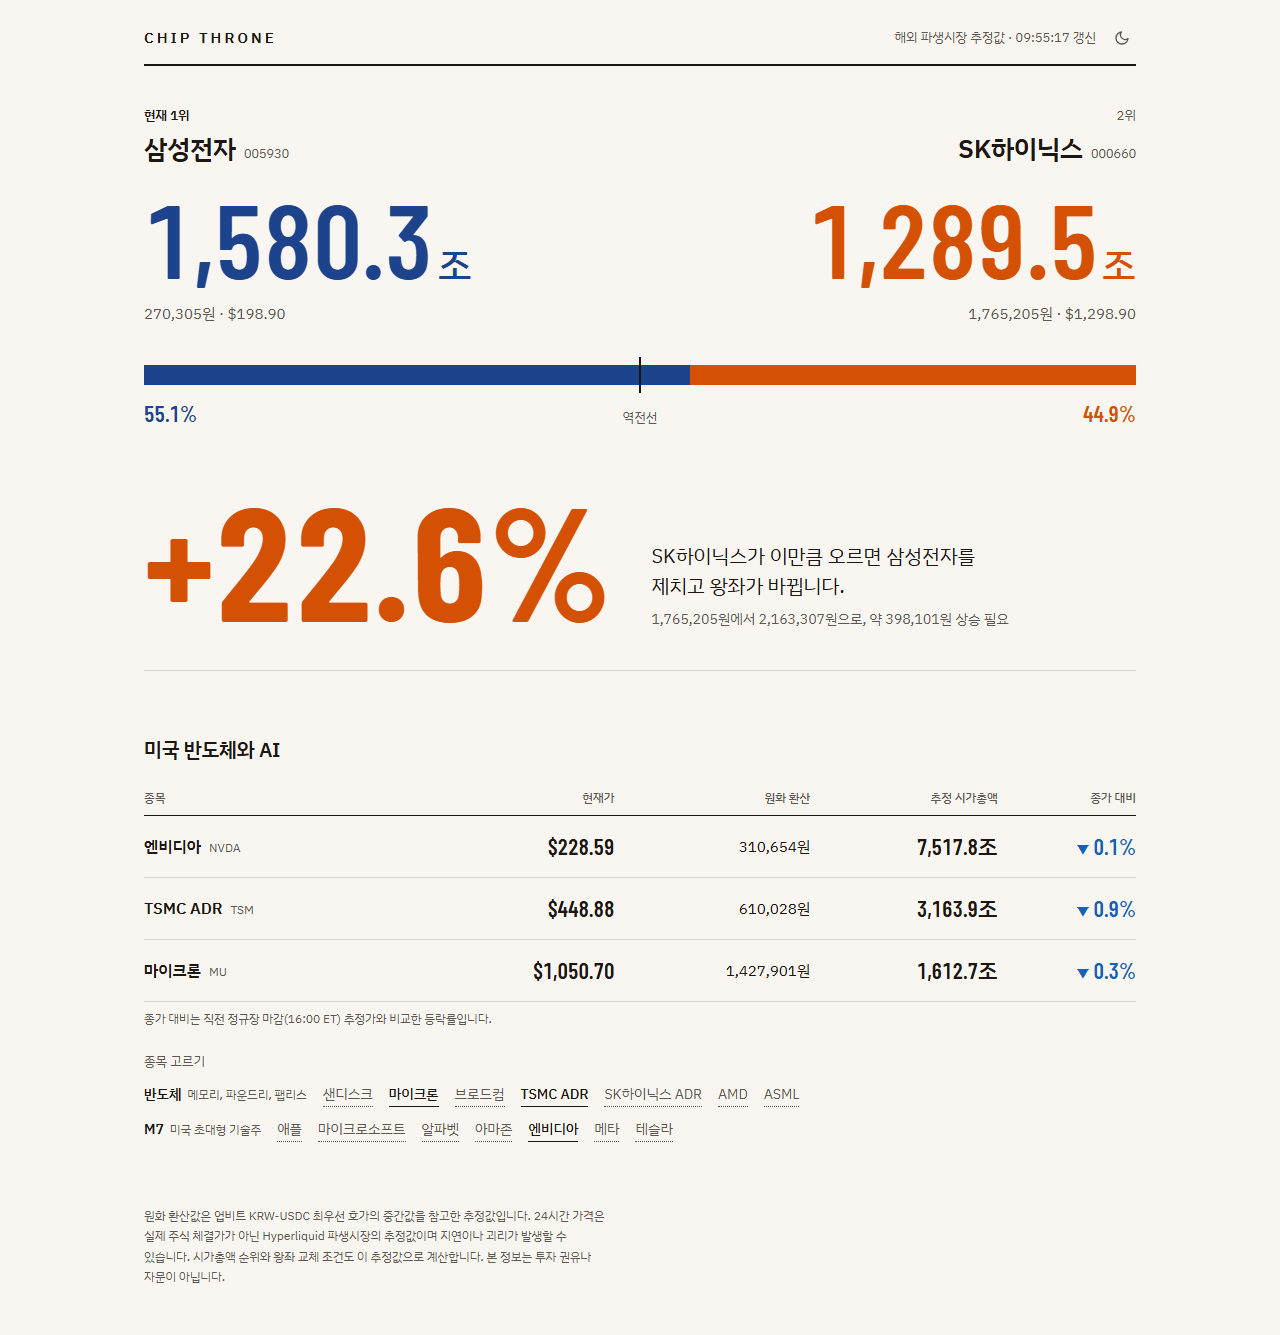
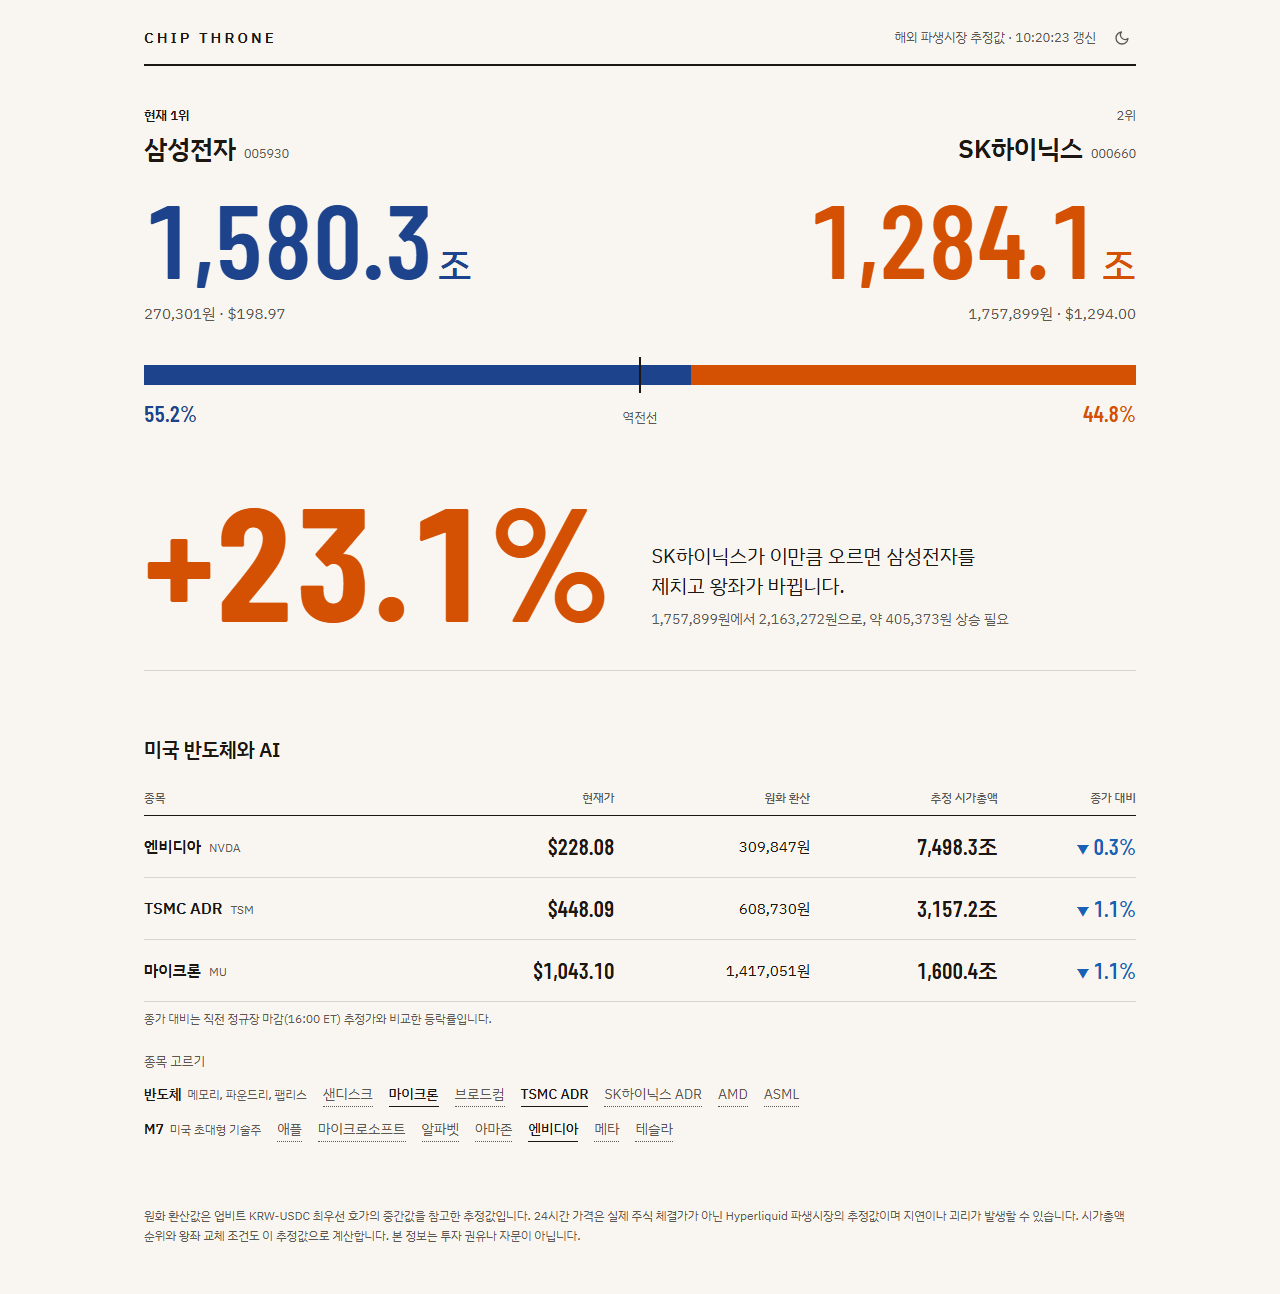
fix: 첫 시세 전에는 목업값 대신 - 표시
첫 SSE 응답 전에 코드에 박힌 예전 가격(삼성전자 369,500원, 시총 2,160조)을 보여 주고
실제 값으로 굴러 내려가는 애니메이션을 돌렸다. 백그라운드 탭에서는 애니메이션이 멈춰
목업값이 실제 시세처럼 남는 문제도 있었다.

- 초기 스냅샷을 비우고, 코드와 이름만 아는 자리(QuoteSlot)를 먼저 그린 뒤 시세를 채움
- 시세 전에는 시가총액, 가격, 비율, 필요 상승률, 순위 자리에 - 표시
- 줄다리기 막대는 중립색 반반으로 두고 판정 자리에 시세를 받는 중이라고 안내
- 미국 관심 종목은 고른 행을 먼저 보여 주고 값 자리만 - 표시
- 면책 문구의 폭 제한을 없애 본문 폭 전체 사용 (1280px 기준 4줄에서 2줄)
- README 화면 이미지를 다시 캡처

diff --git a/frontend/src/components/ReversalCalculator.tsx b/frontend/src/components/ReversalCalculator.tsx
@@ -1,4 +1,4 @@
-import type { Company } from '../types'
+import type { QuoteSlot } from '../types'
 import type { Comparison } from '../lib/marketCap'
 import { formatPrice, marketCap } from '../lib/marketCap'
 import { teamTone } from '../lib/teamTone'
@@ -11,16 +11,16 @@ function particle(word: string, withFinal: string, withoutFinal: string): string
 /**
  * 줄다리기 막대와 역전 조건. 막대는 전광판과 같은 자리(left, right)를 따르고,
  * 가장 큰 숫자인 "필요 상승률"이 이 사이트가 답하는 질문 자체다.
+ * 두 종목 시세가 모두 오기 전에는 막대를 중립색 반반으로 두고 숫자 자리에 "-"를 둔다.
  */
-export function ReversalCalculator({ cmp, left, right }: { cmp: Comparison; left: Company; right: Company }) {
-  const needPct = Math.max(cmp.reversalPct, 0)
-  const needPrice = Math.round(cmp.reversalPrice - cmp.challenger.price)
-  const total = marketCap(left) + marketCap(right)
+export function ReversalCalculator({ cmp, left, right }: { cmp: Comparison | null; left: QuoteSlot; right: QuoteSlot }) {
+  const leftCap = left.company ? marketCap(left.company) : 0
+  const rightCap = right.company ? marketCap(right.company) : 0
+  const ready = cmp != null && leftCap > 0 && rightCap > 0
   // 두 종목 합계 대비 점유율. 50%가 역전선.
-  const leftShare = total > 0 ? (marketCap(left) / total) * 100 : 50
-  const leftTone = teamTone(left.code)
-  const rightTone = teamTone(right.code)
-  const challengerTone = teamTone(cmp.challenger.code)
+  const leftShare = ready ? (leftCap / (leftCap + rightCap)) * 100 : 50
+  const leftTone = ready ? teamTone(left.code) : { text: 'text-ink-2', bar: 'bg-rule' }
+  const rightTone = ready ? teamTone(right.code) : { text: 'text-ink-2', bar: 'bg-rule' }
 
   return (
     <div data-testid="reversal-comparison">
@@ -28,7 +28,7 @@ export function ReversalCalculator({ cmp, left, right }: { cmp: Comparison; left
         <div
           data-testid="reversal-bar"
           role="img"
-          aria-label={`${left.name} ${leftShare.toFixed(1)}%, ${right.name} ${(100 - leftShare).toFixed(1)}%`}
+          aria-label={ready ? `${left.name} ${leftShare.toFixed(1)}%, ${right.name} ${(100 - leftShare).toFixed(1)}%` : '시세를 받는 중'}
           className="relative flex h-5"
         >
           <div className={`h-full ${leftTone.bar}`} style={{ width: `${leftShare}%` }} />
@@ -36,26 +36,48 @@ export function ReversalCalculator({ cmp, left, right }: { cmp: Comparison; left
           <span className="absolute -top-2 -bottom-2 left-1/2 w-0.5 -translate-x-1/2 bg-ink" />
         </div>
         <div className="mt-3 flex items-baseline justify-between text-[13px] text-ink-2">
-          <span className={`num text-[22px] font-semibold ${leftTone.text}`}>{leftShare.toFixed(1)}%</span>
+          <span className={`num text-[22px] font-semibold ${leftTone.text}`}>{ready ? `${leftShare.toFixed(1)}%` : '-%'}</span>
           <span>역전선</span>
-          <span className={`num text-[22px] font-semibold ${rightTone.text}`}>{(100 - leftShare).toFixed(1)}%</span>
+          <span className={`num text-[22px] font-semibold ${rightTone.text}`}>{ready ? `${(100 - leftShare).toFixed(1)}%` : '-%'}</span>
         </div>
       </div>
 
       <div className="mt-14 grid grid-cols-1 items-end gap-4 border-b border-rule pb-10 sm:grid-cols-[auto_minmax(0,1fr)] sm:gap-10">
-        <p className={`num text-[104px] leading-[0.9] font-bold sm:text-[160px] ${challengerTone.text}`}>
-          +{needPct.toFixed(1)}%
-        </p>
-        <div>
-          <p className="max-w-[30ch] text-[19px] leading-[1.5] sm:text-[20px]">
-            {cmp.challenger.name}{particle(cmp.challenger.name, '이', '가')} 이만큼 오르면{' '}
-            {cmp.leader.name}{particle(cmp.leader.name, '을', '를')} 제치고 왕좌가 바뀝니다.
-          </p>
-          <p className="mt-2 text-[14px] tabular-nums text-ink-2">
-            {formatPrice(cmp.challenger.price)}원에서 {formatPrice(cmp.reversalPrice)}원으로, 약 {formatPrice(needPrice)}원 상승 필요
-          </p>
-        </div>
+        {ready && cmp ? <Verdict cmp={cmp} /> : <PendingVerdict />}
       </div>
     </div>
+  )
+}
+
+function Verdict({ cmp }: { cmp: Comparison }) {
+  const needPct = Math.max(cmp.reversalPct, 0)
+  const needPrice = Math.round(cmp.reversalPrice - cmp.challenger.price)
+  return (
+    <>
+      <p className={`num text-[104px] leading-[0.9] font-bold sm:text-[160px] ${teamTone(cmp.challenger.code).text}`}>
+        +{needPct.toFixed(1)}%
+      </p>
+      <div>
+        <p className="max-w-[30ch] text-[19px] leading-[1.5] sm:text-[20px]">
+          {cmp.challenger.name}{particle(cmp.challenger.name, '이', '가')} 이만큼 오르면{' '}
+          {cmp.leader.name}{particle(cmp.leader.name, '을', '를')} 제치고 왕좌가 바뀝니다.
+        </p>
+        <p className="mt-2 text-[14px] tabular-nums text-ink-2">
+          {formatPrice(cmp.challenger.price)}원에서 {formatPrice(cmp.reversalPrice)}원으로, 약 {formatPrice(needPrice)}원 상승 필요
+        </p>
+      </div>
+    </>
+  )
+}
+
+function PendingVerdict() {
+  return (
+    <>
+      <p className="num text-[104px] leading-[0.9] font-bold text-ink-2 sm:text-[160px]">-%</p>
+      <div>
+        <p className="max-w-[30ch] text-[19px] leading-[1.5] sm:text-[20px]">2위가 얼마나 올라야 왕좌가 바뀌는지 계산합니다.</p>
+        <p className="mt-2 text-[14px] text-ink-2">실시간 시세를 받는 중입니다.</p>
+      </div>
+    </>
   )
 }

diff --git a/frontend/src/App.tsx b/frontend/src/App.tsx
@@ -8,6 +8,7 @@ import { useMarketData } from './hooks/useMarketData'
 import { useSupportedAssets } from './hooks/useSupportedAssets'
 import { compareMarketCap, marketCap } from './lib/marketCap'
 import { fallbackAssets } from './data/mockMarket'
+import type { QuoteSlot } from './types'
 import { MAX_WATCHLIST, MIN_WATCHLIST, normalizeWatchlist } from './lib/watchlist.js'
 
 const STORAGE_KEY = 'chipthrone.watchlist.v1'
@@ -38,15 +39,24 @@ function App() {
     [snapshot.stocks, symbols],
   )
   const krxCompanies = companies.filter((company) => company.market === 'KRX')
-  const usCompanies = companies.filter((company) => company.market === 'US')
+  // 시세가 오기 전에도 자리를 그리도록 코드와 이름은 지원 종목 목록에서 먼저 채운다.
+  const assetByCode = useMemo(() => new Map(assets.map((asset) => [asset.code, asset])), [assets])
+  const slotOf = (code: string): QuoteSlot => ({
+    code,
+    name: assetByCode.get(code)?.name ?? code,
+    company: companies.find((company) => company.code === code),
+  })
+  const usSlots = symbols.filter((code) => assetByCode.get(code)?.market === 'US').map(slotOf)
   const krxRanked = useMemo(
     () => [...krxCompanies].sort((a, b) => marketCap(b) - marketCap(a)),
     [krxCompanies],
   )
   const comparison = krxRanked.length >= 2 ? compareMarketCap(krxRanked[0], krxRanked[1]) : null
   // 전광판 자리는 고정한다. 1위가 바뀌면 자리가 아니라 "현재 1위" 표시가 옮겨 간다.
-  const [left, right] = CORE_SYMBOLS.map((code) => krxCompanies.find((company) => company.code === code))
-  const rankOf = (code: string) => krxRanked.findIndex((company) => company.code === code) + 1
+  const [left, right] = CORE_SYMBOLS.map(slotOf)
+  // 두 종목 시세가 모두 와야 순위를 매긴다. 그 전에는 null이라 순위 자리에 "-"가 나온다.
+  const rankOf = (code: string) =>
+    krxRanked.length >= 2 ? krxRanked.findIndex((company) => company.code === code) + 1 : null
 
   const add = (code: string) =>
     setStoredSymbols((current) =>
@@ -65,18 +75,16 @@ function App() {
         <Header updatedAt={snapshot.at} />
 
         <section data-testid="estimate-krx" aria-label="삼성전자와 SK하이닉스 시가총액 대결">
-          {left && right && (
-            <div className="mt-8 grid grid-cols-1 gap-8 sm:mt-10 sm:grid-cols-2 sm:gap-10">
-              <TeamScore company={left} rank={rankOf(left.code)} align="left" />
-              <TeamScore company={right} rank={rankOf(right.code)} align="right" />
-            </div>
-          )}
-          {comparison && left && right && <ReversalCalculator cmp={comparison} left={left} right={right} />}
+          <div className="mt-8 grid grid-cols-1 gap-8 sm:mt-10 sm:grid-cols-2 sm:gap-10">
+            <TeamScore slot={left} rank={rankOf(left.code)} align="left" />
+            <TeamScore slot={right} rank={rankOf(right.code)} align="right" />
+          </div>
+          <ReversalCalculator cmp={comparison} left={left} right={right} />
         </section>
 
         <section data-testid="us-watchlist" className="mt-16">
           <h2 className="mb-4 text-[20px] font-semibold tracking-[-0.01em]">미국 반도체와 AI</h2>
-          <UsQuoteTable companies={usCompanies} />
+          <UsQuoteTable slots={usSlots} />
           <WatchlistPicker
             assets={assets}
             selected={symbols}
@@ -85,7 +93,7 @@ function App() {
           />
         </section>
 
-        <footer className="mt-16 max-w-[64ch] text-[12px] leading-[1.7] text-ink-2">
+        <footer className="mt-16 text-[12px] leading-[1.7] text-ink-2">
           원화 환산값은 업비트 KRW-USDC 최우선 호가의 중간값을 참고한 추정값입니다.
           24시간 가격은 실제 주식 체결가가 아닌 Hyperliquid 파생시장의 추정값이며 지연이나 괴리가 발생할 수 있습니다.
           시가총액 순위와 왕좌 교체 조건도 이 추정값으로 계산합니다.

diff --git a/frontend/src/components/UsQuoteTable.tsx b/frontend/src/components/UsQuoteTable.tsx
@@ -1,4 +1,4 @@
-import type { Company } from '../types'
+import type { QuoteSlot } from '../types'
 import { formatCap, formatPrice, formatUsdAmount, marketCap, sessionCloseChangePct } from '../lib/marketCap'
 
 function Change({ value }: { value: number | null }) {
@@ -15,10 +15,14 @@ function Change({ value }: { value: number | null }) {
 
 /**
  * 관심 종목 시세표. 카드를 반복하지 않고 한 표에서 시총 순으로 비교한다.
+ * 시세가 아직 오지 않은 종목은 고른 순서대로 아래에 두고 값 자리에 "-"를 둔다.
  * 좁은 화면에서는 원화 환산 열을 숨겨 네 열만 남긴다.
  */
-export function UsQuoteTable({ companies }: { companies: Company[] }) {
-  const rows = [...companies].sort((a, b) => marketCap(b) - marketCap(a))
+export function UsQuoteTable({ slots }: { slots: QuoteSlot[] }) {
+  const capOf = (slot: QuoteSlot) => (slot.company ? marketCap(slot.company) : 0)
+  const loaded = slots.filter((slot) => slot.company).sort((a, b) => capOf(b) - capOf(a))
+  const pending = slots.filter((slot) => !slot.company)
+  const rows = [...loaded, ...pending]
   return (
     <div>
       <table className="w-full border-collapse">
@@ -39,17 +43,23 @@ export function UsQuoteTable({ companies }: { companies: Company[] }) {
               </td>
             </tr>
           ) : (
-            rows.map((company) => (
-              <tr key={company.code} data-testid="us-company-card" className="border-b border-rule">
+            rows.map(({ code, name, company }) => (
+              <tr key={code} data-testid="us-company-card" className="border-b border-rule">
                 <td className="py-3.5 pr-3 text-left">
-                  <span className="font-semibold">{company.name}</span>
-                  <span className="ml-2 text-[12px] text-ink-2">{company.code}</span>
+                  <span className="font-semibold">{name}</span>
+                  <span className="ml-2 text-[12px] text-ink-2">{code}</span>
                 </td>
-                <td className="num py-3.5 text-right text-[18px] font-semibold sm:text-[22px]">{formatUsdAmount(company.priceUsd)}</td>
-                <td className="hidden py-3.5 text-right text-[15px] tabular-nums sm:table-cell">{formatPrice(company.price)}원</td>
-                <td className="num py-3.5 text-right text-[18px] font-semibold sm:text-[22px]">{formatCap(marketCap(company))}</td>
                 <td className="num py-3.5 text-right text-[18px] font-semibold sm:text-[22px]">
-                  <Change value={sessionCloseChangePct(company)} />
+                  {company ? formatUsdAmount(company.priceUsd) : '-'}
+                </td>
+                <td className="hidden py-3.5 text-right text-[15px] tabular-nums sm:table-cell">
+                  {company ? `${formatPrice(company.price)}원` : '-'}
+                </td>
+                <td className="num py-3.5 text-right text-[18px] font-semibold sm:text-[22px]">
+                  {company ? formatCap(marketCap(company)) : '-'}
+                </td>
+                <td className="num py-3.5 text-right text-[18px] font-semibold sm:text-[22px]">
+                  <Change value={company ? sessionCloseChangePct(company) : null} />
                 </td>
               </tr>
             ))

diff --git a/frontend/src/components/Scoreboard.tsx b/frontend/src/components/Scoreboard.tsx
@@ -1,4 +1,4 @@
-import type { Company } from '../types'
+import type { QuoteSlot } from '../types'
 import { formatPrice, formatUsdAmount, marketCap } from '../lib/marketCap'
 import { teamTone } from '../lib/teamTone'
 import { AnimatedNumber } from './AnimatedNumber'
@@ -11,25 +11,33 @@ function formatTrillion(cap: number): string {
 /**
  * 전광판의 한쪽 팀. 자리는 고정하고(삼성전자 왼쪽, SK하이닉스 오른쪽) 순위 표시만 바꿔,
  * 1위가 바뀌는 순간이 자리 이동이 아니라 "현재 1위" 표시의 이동으로 보이게 한다.
+ * 첫 시세가 오기 전에는 순위와 숫자 자리에 "-"를 둔다.
  */
-export function TeamScore({ company, rank, align }: { company: Company; rank: number; align: 'left' | 'right' }) {
-  const tone = teamTone(company.code)
+export function TeamScore({ slot, rank, align }: { slot: QuoteSlot; rank: number | null; align: 'left' | 'right' }) {
+  const { company } = slot
+  const tone = teamTone(slot.code)
   return (
     <div data-testid="estimate-company-card" className={align === 'right' ? 'sm:text-right' : undefined}>
       <p className="text-[13px] text-ink-2">
-        {rank === 1 ? <strong className="font-semibold text-ink">현재 1위</strong> : `${rank}위`}
+        {rank === 1 ? <strong className="font-semibold text-ink">현재 1위</strong> : rank ? `${rank}위` : '-'}
       </p>
       <h2 className="mt-1 text-[22px] font-semibold tracking-[-0.01em] sm:text-[26px]">
-        {company.name}
-        <span className="ml-2 text-[13px] font-normal text-ink-2">{company.code}</span>
+        {slot.name}
+        <span className="ml-2 text-[13px] font-normal text-ink-2">{slot.code}</span>
       </h2>
       {/* 줄 높이를 1보다 넉넉히 둬야 큰 숫자의 쉼표 꼬리가 아래 가격 줄을 침범하지 않는다 */}
-      <p className={`num mt-3 text-[64px] leading-[1.1] font-semibold sm:text-[104px] ${tone.text}`}>
-        <AnimatedNumber value={marketCap(company)} format={formatTrillion} />
+      <p className={`num mt-3 text-[64px] leading-[1.1] font-semibold sm:text-[104px] ${company ? tone.text : 'text-ink-2'}`}>
+        {company ? <AnimatedNumber value={marketCap(company)} format={formatTrillion} /> : '-'}
         <span className="ml-1 text-[28px] font-medium sm:text-[38px]">조</span>
       </p>
       <p className="mt-2 text-[15px] tabular-nums text-ink-2">
-        <AnimatedNumber value={company.price} format={formatPrice} />원 · {formatUsdAmount(company.priceUsd)}
+        {company ? (
+          <>
+            <AnimatedNumber value={company.price} format={formatPrice} />원 · {formatUsdAmount(company.priceUsd)}
+          </>
+        ) : (
+          '-원 · $-'
+        )}
       </p>
     </div>
   )

diff --git a/frontend/src/data/mockMarket.ts b/frontend/src/data/mockMarket.ts
@@ -19,44 +19,9 @@ export const fallbackAssets: SupportedAsset[] = [
   { code: 'SKHY', name: 'SK하이닉스 ADR', market: 'US' },
 ]
 
-// SSE 첫 응답 전 레이아웃을 유지하는 개발용 초기값.
-export const mockSnapshot: MarketSnapshot = {
+// 첫 SSE 응답 전 상태. 예전 가격을 목업으로 보여 주면 실제 시세처럼 읽히므로 비워 둔다.
+export const emptySnapshot: MarketSnapshot = {
   mode: 'ESTIMATE',
-  at: new Date().toISOString(),
-  stocks: [
-    {
-      code: '005930',
-      name: '삼성전자',
-      color: 'blue',
-      logo: '/logos/samsung.svg',
-      price: 369500,
-      priceUsd: 241.35,
-      changePct: 1.1,
-      nxtClose: null,
-      nxtCloseDate: null,
-      sharesOutstanding: 5_846_278_608,
-      sessionCloseUsd: null,
-      sessionCloseDate: null,
-      market: 'KRX',
-      source: 'HYPERLIQUID',
-      status: 'ESTIMATE',
-    },
-    {
-      code: '000660',
-      name: 'SK하이닉스',
-      color: 'red',
-      logo: '/logos/skhynix.svg',
-      price: 2_929_400,
-      priceUsd: 1913.39,
-      changePct: 2.4,
-      nxtClose: null,
-      nxtCloseDate: null,
-      sharesOutstanding: 730_492_365,
-      sessionCloseUsd: null,
-      sessionCloseDate: null,
-      market: 'KRX',
-      source: 'HYPERLIQUID',
-      status: 'ESTIMATE',
-    },
-  ],
+  at: '',
+  stocks: [],
 }

diff --git a/frontend/src/hooks/useMarketData.ts b/frontend/src/hooks/useMarketData.ts
@@ -1,6 +1,6 @@
 import { useEffect, useState } from 'react'
 import type { Company, MarketSnapshot } from '../types'
-import { mockSnapshot } from '../data/mockMarket'
+import { emptySnapshot } from '../data/mockMarket'
 
 const API_BASE = import.meta.env.VITE_API_URL ?? 'http://localhost:8080'
 
@@ -54,7 +54,7 @@ function toCompany(stock: BackendStock, index: number): Company {
 }
 
 export function useMarketData(symbols: string[]): { snapshot: MarketSnapshot } {
-  const [snapshot, setSnapshot] = useState<MarketSnapshot>(mockSnapshot)
+  const [snapshot, setSnapshot] = useState<MarketSnapshot>(emptySnapshot)
   const symbolKey = symbols.join(',')
 
   useEffect(() => {

diff --git a/frontend/src/types.ts b/frontend/src/types.ts
@@ -34,6 +34,16 @@ export type MarketSnapshot = {
   stocks: Company[]
 }
 
+/**
+ * 화면의 한 자리. 코드와 이름은 처음부터 알지만 시세(company)는 첫 SSE 응답이 와야 채워진다.
+ * company가 없으면 숫자 자리에 "-"를 보여 준다.
+ */
+export type QuoteSlot = {
+  code: string
+  name: string
+  company?: Company
+}
+
 export type SupportedAsset = {
   code: string
   name: string
